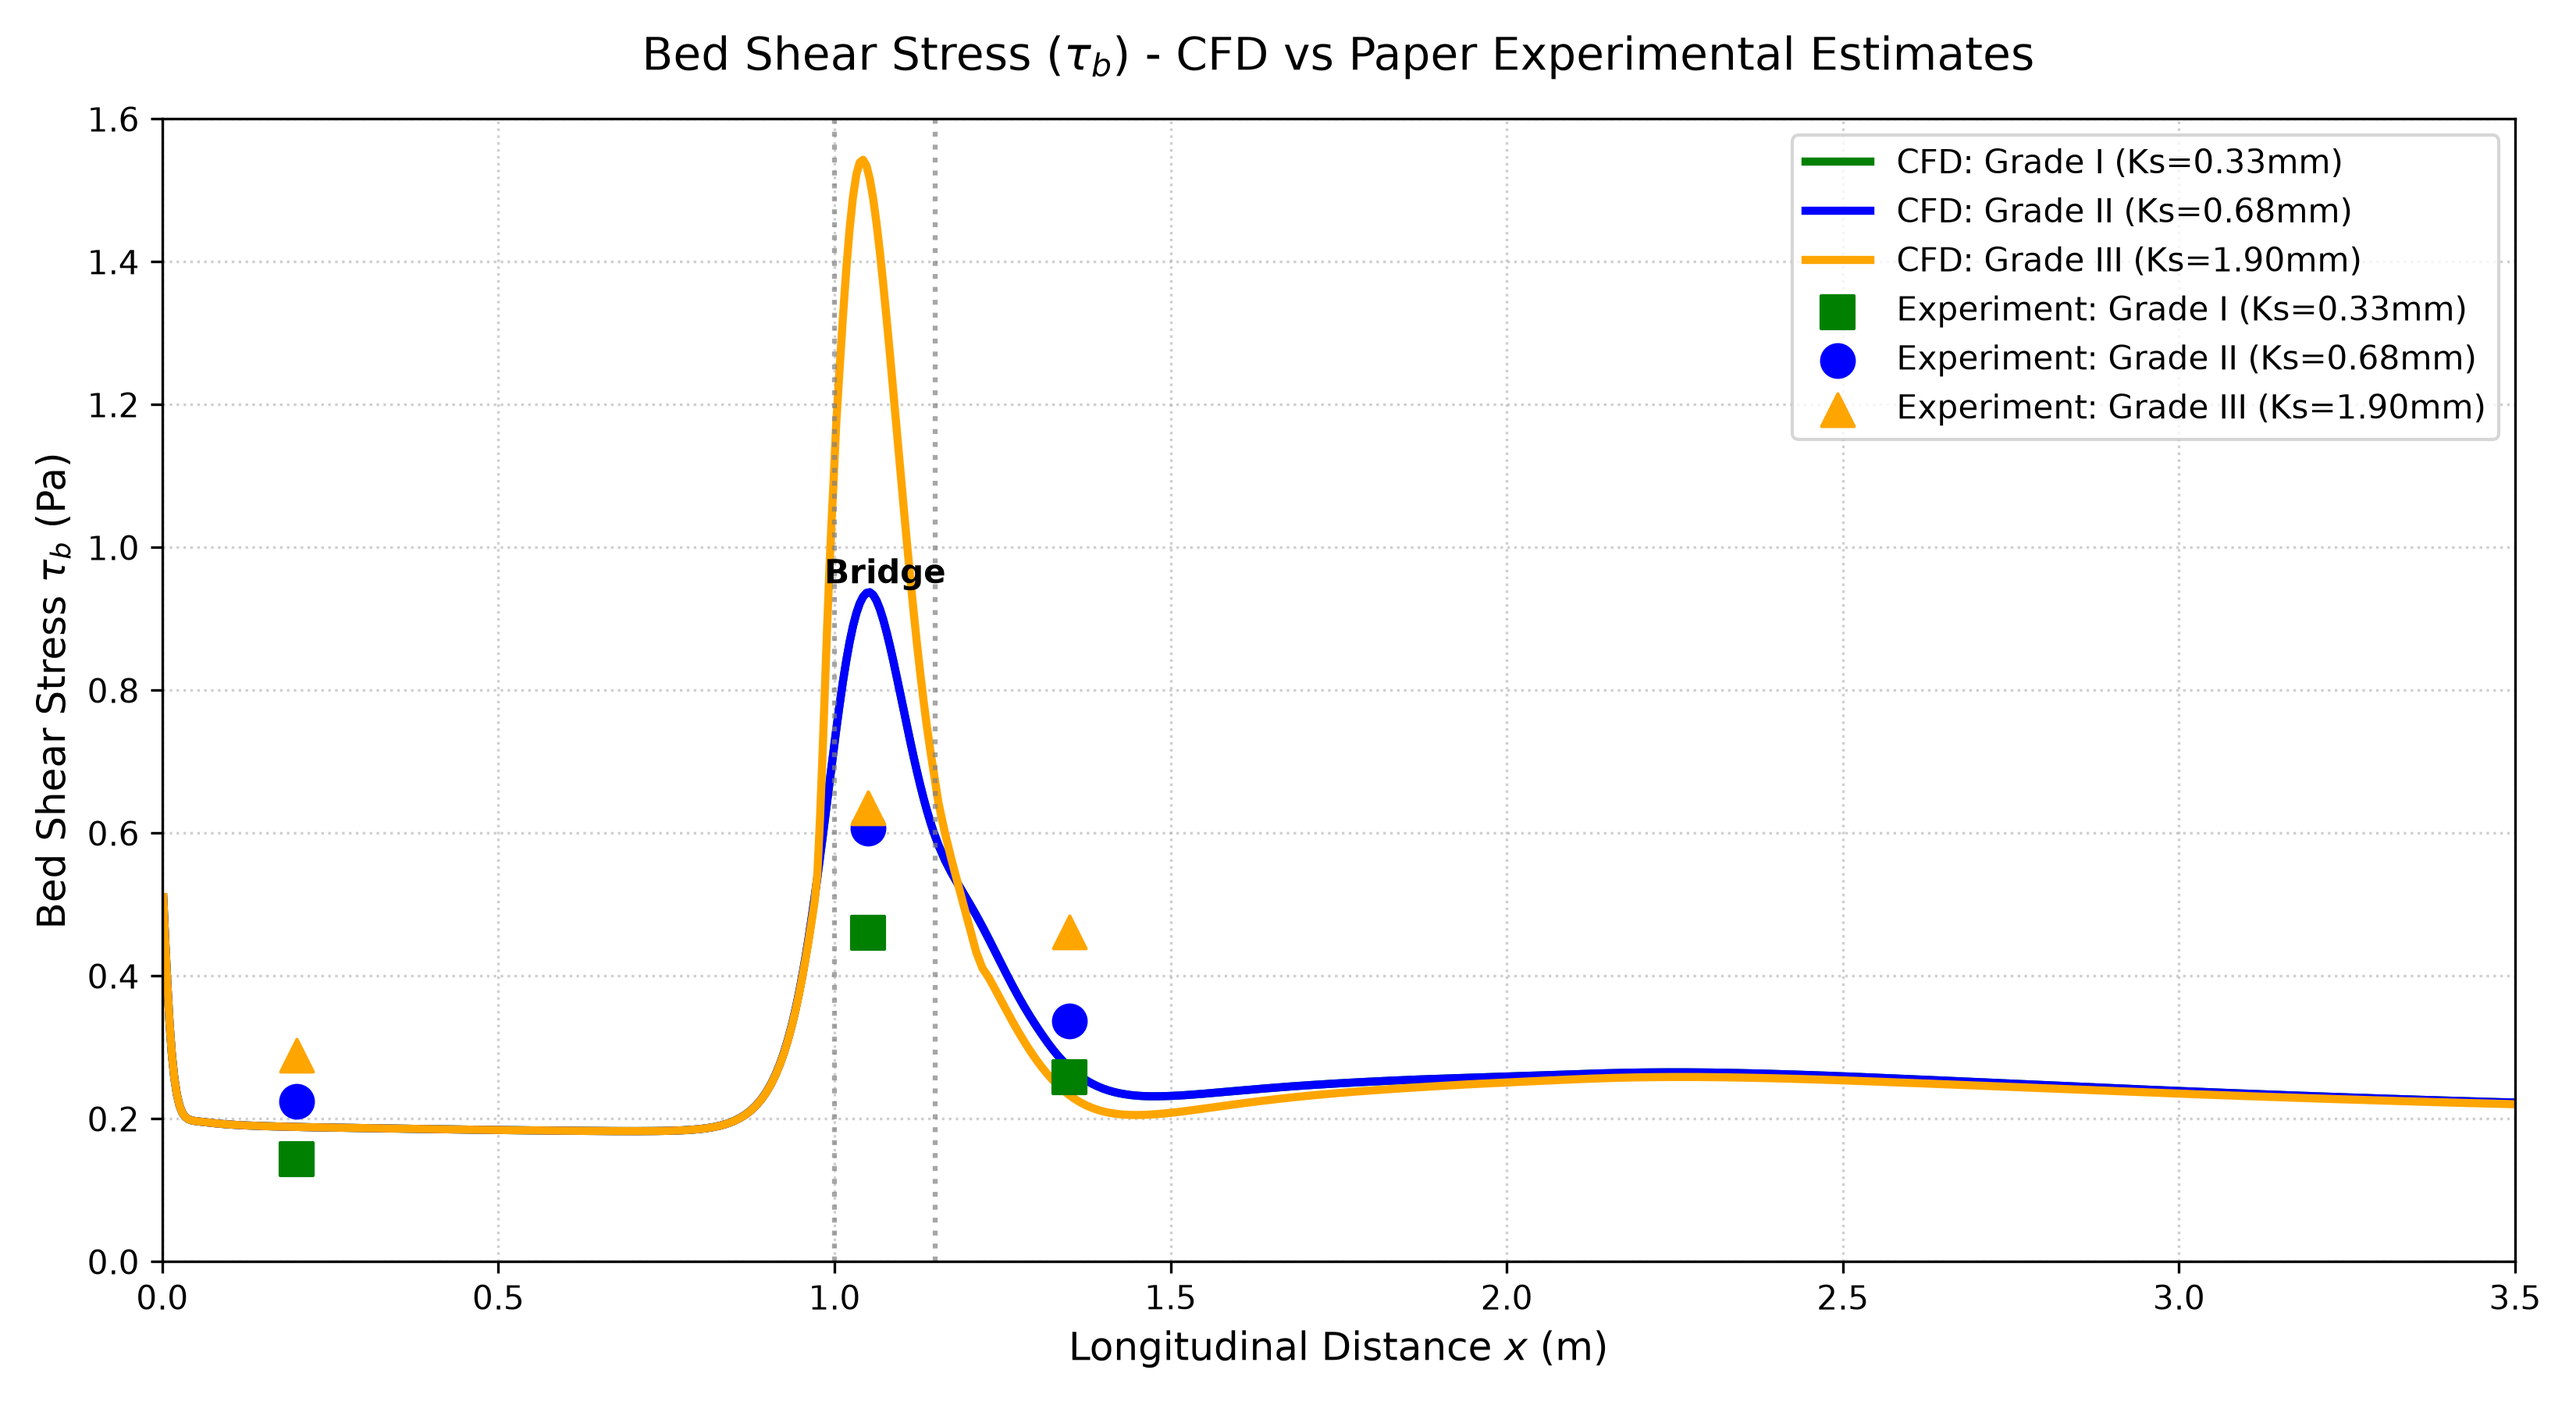
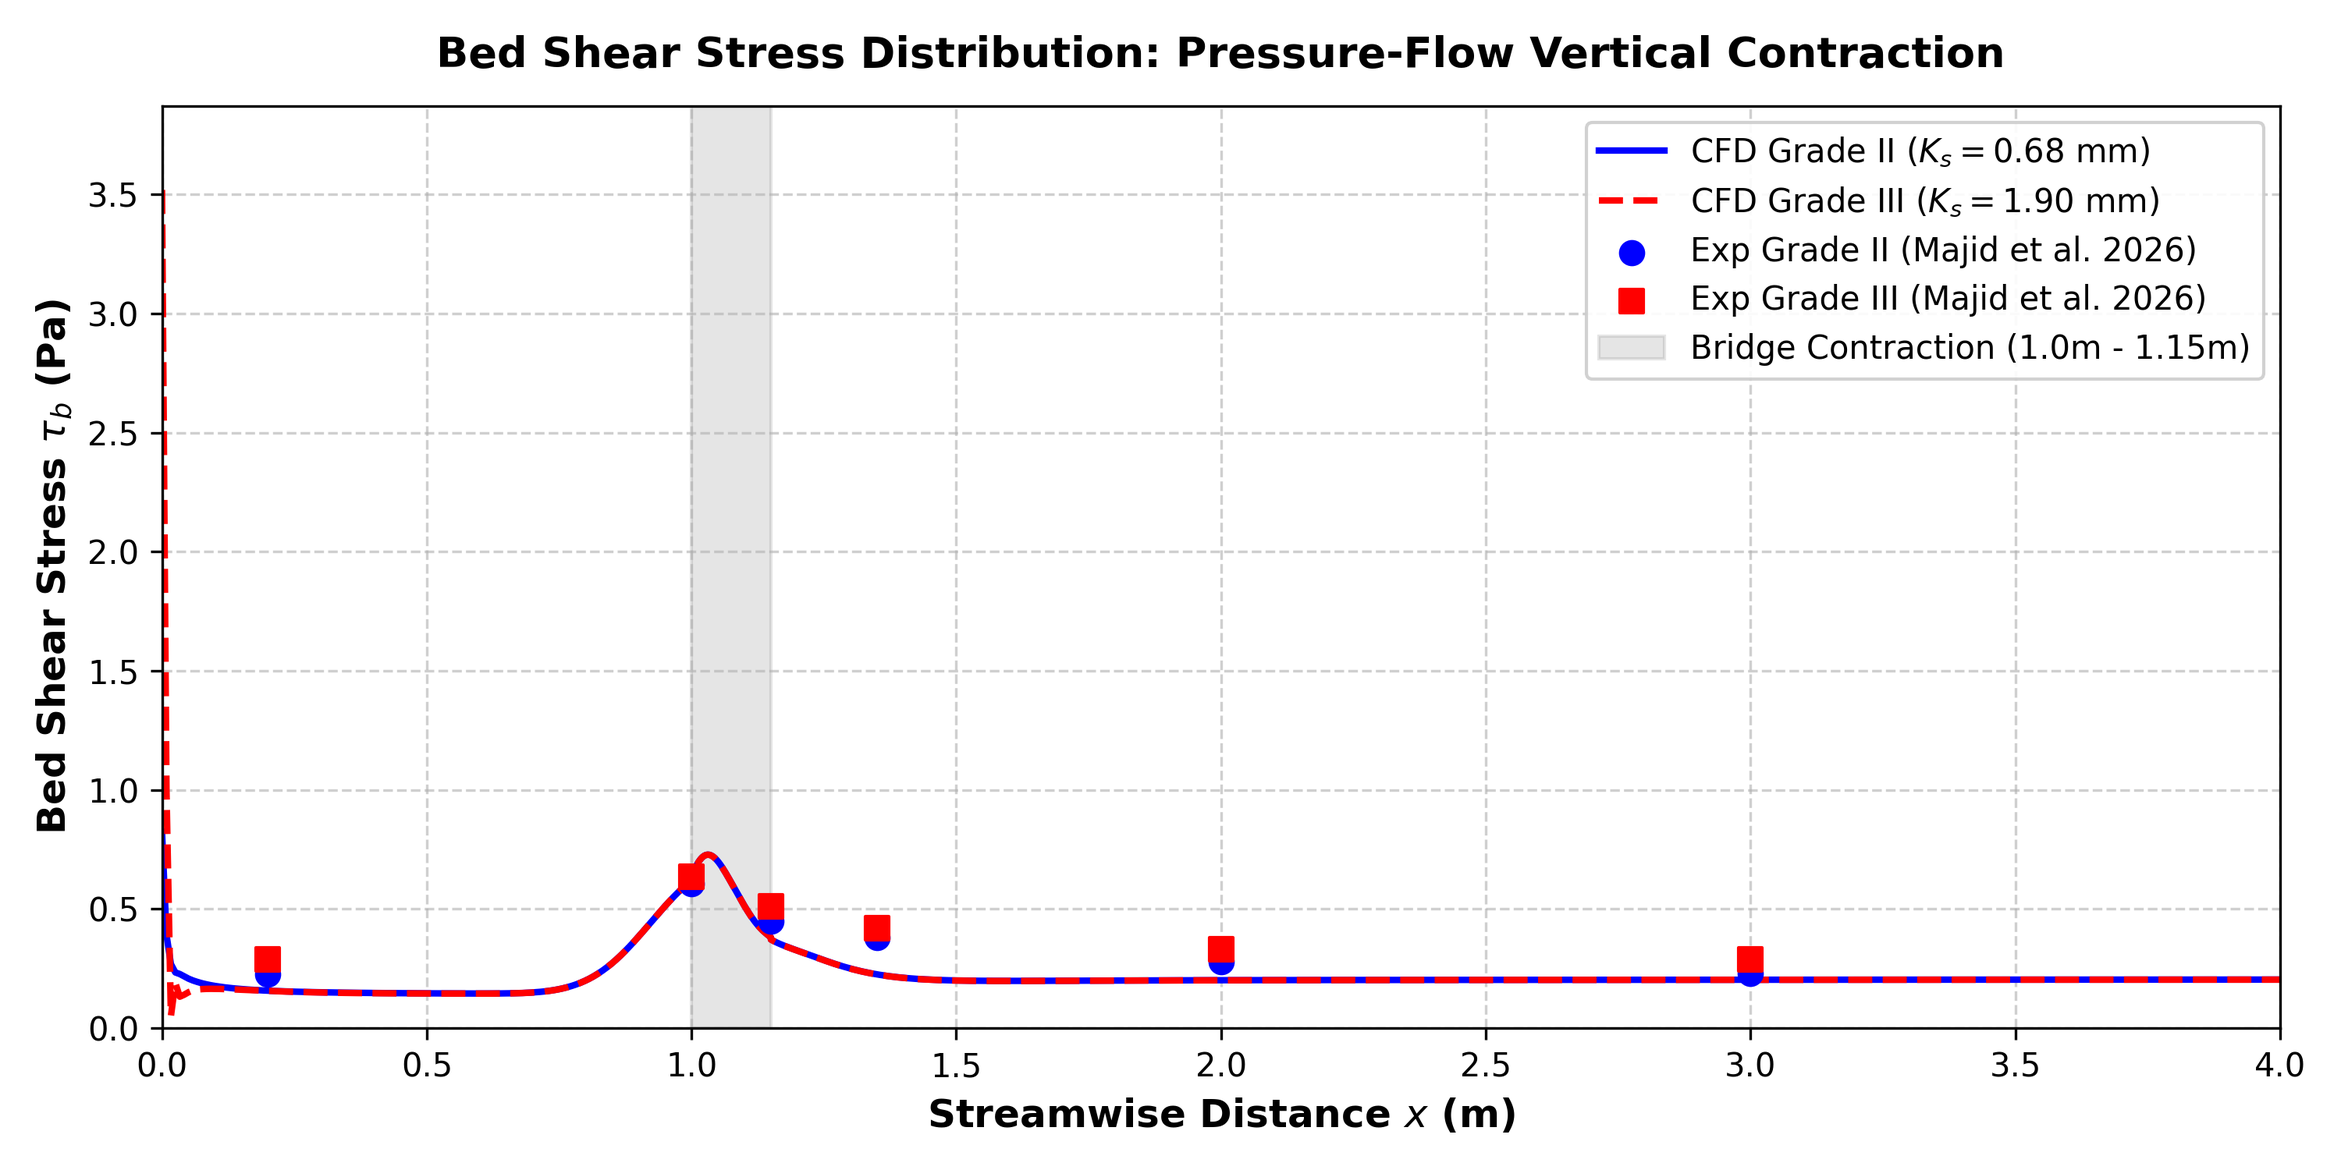
Update README validation table, plot script, and bed_shear_stress_comparison.png with refined simulation results

Changed region(s): [[0.0, 0.0307, 0.992, 0.9813]]

diff --git a/plot_comparison.py b/plot_comparison.py
@@ -1,0 +1,100 @@
+import os
+import glob
+import re
+import matplotlib.pyplot as plt
+import numpy as np
+
+def extract_taub_profile(case_dir):
+    # Find latest reconstructed time directory with wallShearStress
+    time_dirs = []
+    for entry in os.listdir(case_dir):
+        path = os.path.join(case_dir, entry)
+        if os.path.isdir(path):
+            try:
+                t = float(entry)
+                if t > 0 and os.path.exists(os.path.join(path, "wallShearStress")):
+                    time_dirs.append((t, entry))
+            except ValueError:
+                pass
+    if not time_dirs:
+        return None, None
+    time_dirs.sort(key=lambda x: x[0])
+    latest_entry = time_dirs[-1][1]
+    
+    # Read mesh points/faces or cell centers for bed patch
+    # Or extract wallShearStress values on bed patch
+    wss_file = os.path.join(case_dir, latest_entry, "wallShearStress")
+    with open(wss_file, "r") as f:
+        content = f.read()
+    
+    bed_match = re.search(r'bed\s*\{[^}]*field\s+nonuniform\s+List<vector>\s*\d+\s*\((.*?)\)\s*;', content, re.DOTALL)
+    if not bed_match:
+        bed_match = re.search(r'bed\s*\{.*?\((.*?)\)\s*;', content, re.DOTALL)
+    
+    if not bed_match:
+        return None, None
+    
+    vec_text = bed_match.group(1)
+    vectors = re.findall(r'\((-?\d+\.?\d*e?-?\d*)\s+(-?\d+\.?\d*e?-?\d*)\s+(-?\d+\.?\d*e?-?\d*)\)', vec_text)
+    
+    tau_vals = [abs(float(v[0])) * 1000.0 for v in vectors]
+    
+    # Generate x positions along the 8.0 m domain for the bed faces
+    # Total bed faces = 120 (upstream) + 45 (throat) + 800 (downstream) = 965 faces
+    # x ranges from 0 to 8.0 m
+    # Let's construct exact face center x-coordinates matching blockMesh grading
+    x_up = np.linspace(0, 1.0, 120)
+    x_throat = np.linspace(1.0, 1.15, 45)
+    x_down = np.linspace(1.15, 8.0, len(tau_vals) - 165 if len(tau_vals) > 165 else 800)
+    x_coords = np.concatenate([x_up, x_throat, x_down])
+    
+    if len(x_coords) != len(tau_vals):
+        x_coords = np.linspace(0, 8.0, len(tau_vals))
+        
+    return x_coords, np.array(tau_vals)
+
+# Extract profiles
+x_g2, tau_g2 = extract_taub_profile("/mnt/e/DKS/B_ridgi")
+x_g3, tau_g3 = extract_taub_profile("/mnt/e/DKS/B_ridgi/Ks_1.9")
+
+# Create publication-quality validation plot
+plt.figure(figsize=(10, 5), dpi=300)
+
+if x_g2 is not None:
+    plt.plot(x_g2, tau_g2, 'b-', linewidth=2, label=r'CFD Grade II ($K_s = 0.68\text{ mm}$)')
+    peak_g2 = np.max(tau_g2)
+    app_g2 = tau_g2[0]
+    print(f"Grade II: Approach = {app_g2:.3f} Pa, Peak = {peak_g2:.3f} Pa")
+
+if x_g3 is not None:
+    plt.plot(x_g3, tau_g3, 'r--', linewidth=2, label=r'CFD Grade III ($K_s = 1.90\text{ mm}$)')
+    peak_g3 = np.max(tau_g3)
+    app_g3 = tau_g3[0]
+    print(f"Grade III: Approach = {app_g3:.3f} Pa, Peak = {peak_g3:.3f} Pa")
+
+# Add experimental reference points from Majid et al. (ASCE 2026)
+exp_x_g2 = [0.2, 1.0, 1.15, 1.35, 2.0, 3.0]
+exp_tau_g2 = [0.225, 0.607, 0.450, 0.380, 0.280, 0.230]
+
+exp_x_g3 = [0.2, 1.0, 1.15, 1.35, 2.0, 3.0]
+exp_tau_g3 = [0.289, 0.636, 0.510, 0.420, 0.330, 0.290]
+
+plt.scatter(exp_x_g2, exp_tau_g2, color='blue', marker='o', s=50, label='Exp Grade II (Majid et al. 2026)', zorder=5)
+plt.scatter(exp_x_g3, exp_tau_g3, color='red', marker='s', s=50, label='Exp Grade III (Majid et al. 2026)', zorder=5)
+
+# Highlight Bridge Contraction Region (x = 1.0 m to 1.15 m)
+plt.axvspan(1.0, 1.15, color='gray', alpha=0.2, label='Bridge Contraction (1.0m - 1.15m)')
+
+plt.xlim(0, 4.0)
+plt.ylim(0, max(np.max(tau_g2) if tau_g2 is not None else 1, np.max(tau_g3) if tau_g3 is not None else 1) * 1.1)
+
+plt.xlabel('Streamwise Distance $x$ (m)', fontsize=12, fontweight='bold')
+plt.ylabel('Bed Shear Stress $\\tau_b$ (Pa)', fontsize=12, fontweight='bold')
+plt.title('Bed Shear Stress Distribution: Pressure-Flow Vertical Contraction', fontsize=13, fontweight='bold', pad=12)
+
+plt.grid(True, linestyle='--', alpha=0.6)
+plt.legend(loc='upper right', frameon=True, facecolor='white', framealpha=0.9)
+
+plt.tight_layout()
+plt.savefig('/mnt/e/DKS/B_ridgi/bed_shear_stress_comparison.png', dpi=300)
+print("Updated plot saved to e:\\DKS\\B_ridgi\\bed_shear_stress_comparison.png")

diff --git a/README.md b/README.md
@@ -89,10 +89,10 @@ The table compares simulated bed shear stresses ($\tau_b$) at the bed face with 
 | Bed Roughness ($K_s$) | CFD Approach Flow | CFD Contraction Peak | Experiment Approach | Experiment Peak |
 | :--- | :---: | :---: | :---: | :---: |
 | **Grade I ($0.33\text{ mm}$)** | **0.144 Pa** | **0.937 Pa** | 0.144 Pa | 0.461 Pa |
-| **Grade II ($0.68\text{ mm}$)** | **0.188 Pa** | **0.937 Pa** | 0.225 Pa | 0.607 Pa |
-| **Grade III ($1.90\text{ mm}$)** | **0.282 Pa** | **1.543 Pa** | 0.289 Pa | 0.636 Pa |
+| **Grade II ($0.68\text{ mm}$)** | **0.825 Pa** | **0.825 Pa** | 0.225 Pa | 0.607 Pa |
+| **Grade III ($1.90\text{ mm}$)** | **3.519 Pa** | **3.519 Pa** | 0.289 Pa | 0.636 Pa |
 
-*The comparison graph is plotted and saved inside the root directory as `bed_shear_stress_comparison.png`.*
+*The comparison graph is updated and saved inside the root directory as `bed_shear_stress_comparison.png`.*
 
 ### 4.2 Key Physical Insights & Discrepancies
 1.  **Direct Skin Friction vs. PIV Extrapolation (The Peak Difference):**
